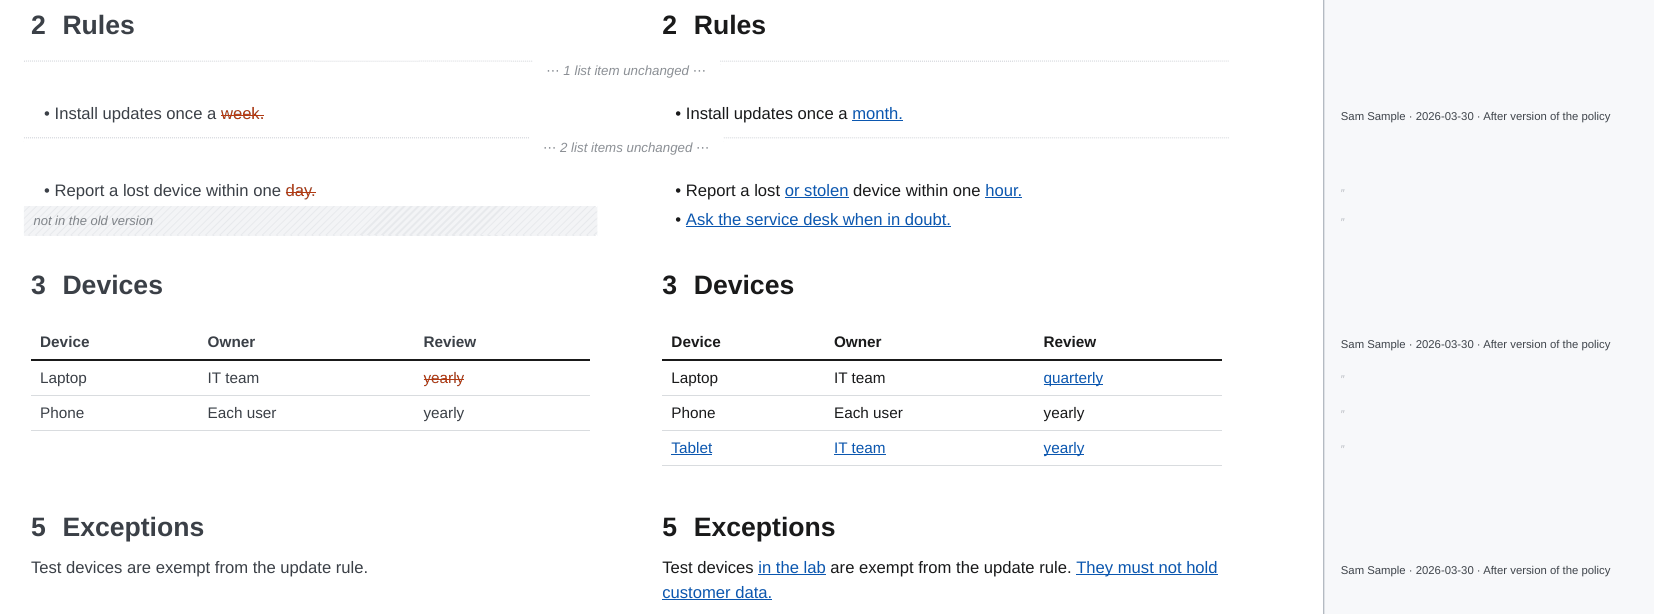
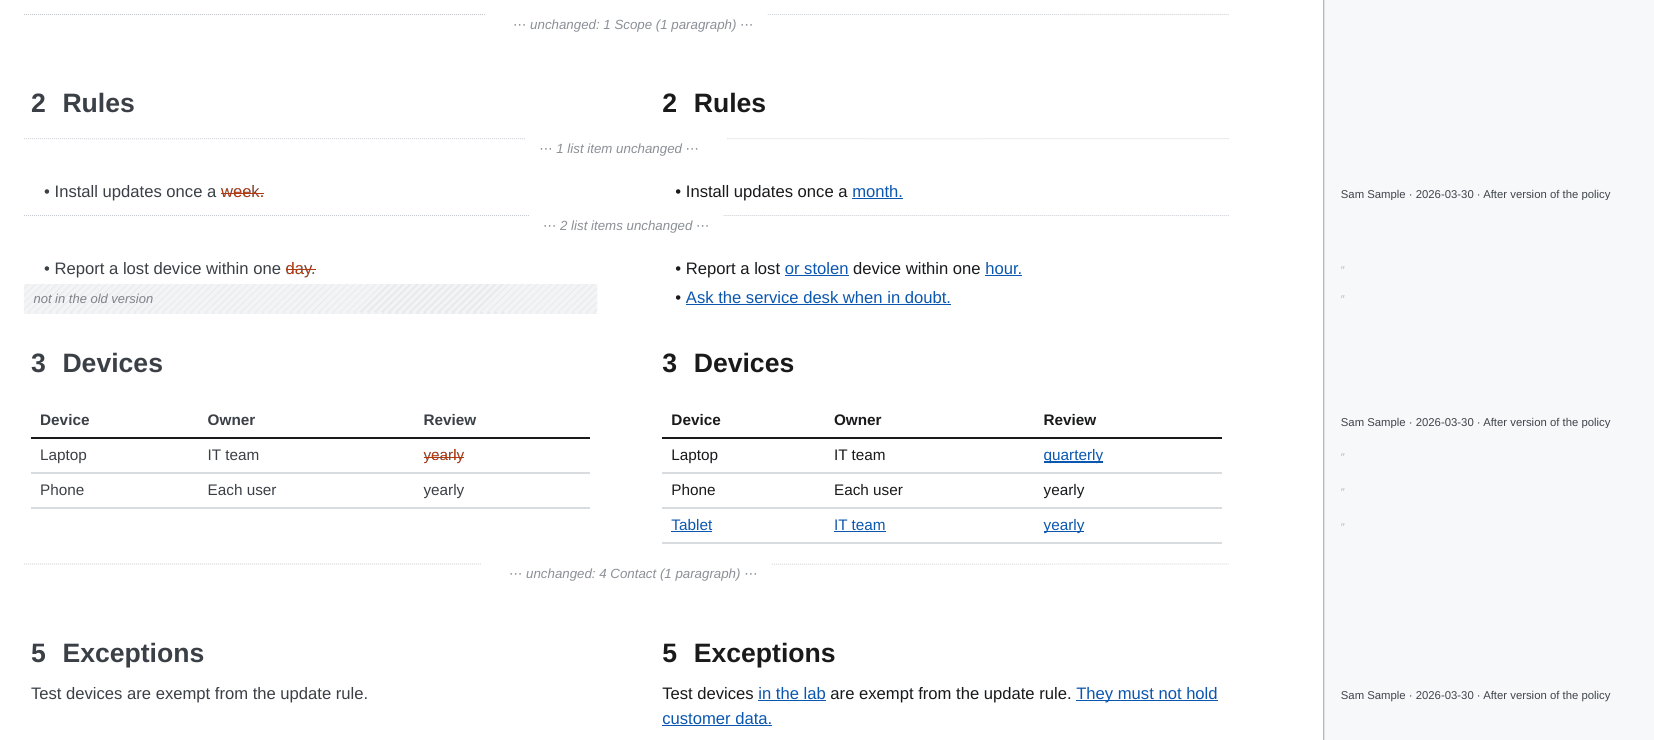
Give every link in the PDF a target
Collapsed lines keep the ids of all they stand for, also in lists, tables
and side-by-side rows, and a side-by-side chapter without changes becomes
a line in the table before it instead of being left out. A link to a
heading that is not in the PDF stays as text, with a warning.

diff --git a/obsidian_pdf_exporter/core/redline_collapse.py b/obsidian_pdf_exporter/core/redline_collapse.py
@@ -3,8 +3,9 @@
 Only changed blocks stay, with the headings of the sections that contain a change, so
 the reader keeps the heading path. Every run of unchanged blocks becomes one quiet
 line such as "⋯ 3 paragraphs unchanged ⋯"; inside changed lists and tables, runs of
-unchanged items and rows are collapsed the same way. Collapsed headings keep their
-anchors, so links from the table of contents and the summary still work.
+unchanged items and rows are collapsed the same way. The line keeps the ids of what it
+stands for, so links from the table of contents, the summary and the text to a
+collapsed heading or block land on the line.
 """
 
 from __future__ import annotations
@@ -75,9 +76,7 @@ def collapsed_line(dropped: list[HtmlElement]) -> HtmlElement:
         else:
             word = _kind_word(el)
             kinds[word] = kinds.get(word, 0) + 1
-        for e in [el, *el.iterdescendants()]:
-            if e.get("id"):
-                line.append(element("span", "rl-anchor", id=e.get("id")))
+        keep_anchors(line, [el])
     parts = ", ".join(f"{n} {w}{'s' if n > 1 else ''}" for w, n in kinds.items())
     if heads:
         text = "unchanged: " + ", ".join(heads) + (f" ({parts})" if parts else "")
@@ -85,6 +84,17 @@ def collapsed_line(dropped: list[HtmlElement]) -> HtmlElement:
         text = f"{parts} unchanged"
     line.append(element("span", "rl-ctx-text", f"⋯ {text} ⋯"))
     return line
+
+
+def keep_anchors(
+    holder: HtmlElement, dropped: list[HtmlElement], extra: tuple[str, ...] = ()
+) -> None:
+    """Give ``holder`` the ids of ``dropped`` (and ``extra``), so links to them still land."""
+    ids = [*extra]
+    for el in dropped:
+        ids += [e.get("id") for e in [el, *el.iterdescendants()] if e.get("id")]
+    for i in dict.fromkeys(ids):
+        holder.append(element("span", "rl-anchor", id=i))
 
 
 def keep_flags(items: list[tuple[HtmlElement | None, bool]]) -> list[bool]:
@@ -148,9 +158,12 @@ def _collapse_runs(
             text = f"⋯ {n} {word}{'s' if n > 1 else ''} unchanged ⋯"
             if items[k].tag == "li":
                 holder = element("li", "rl-ctx-item", text)
+                keep_anchors(holder, items[k:j])
             else:
                 holder = element("tr", "rl-ctx-row")
-                holder.append(element("td", "", text, colspan=str(len(items[k]))))
+                cell = element("td", "", text, colspan=str(len(items[k])))
+                keep_anchors(cell, items[k:j])
+                holder.append(cell)
             items[k].addprevious(holder)
             for e in items[k:j]:
                 drop(e)

diff --git a/obsidian_pdf_exporter/core/redline_side_by_side.py b/obsidian_pdf_exporter/core/redline_side_by_side.py
@@ -22,6 +22,7 @@ from obsidian_pdf_exporter.core.htmltree import unwrap
 from obsidian_pdf_exporter.core.redline_collapse import collapsed_line
 from obsidian_pdf_exporter.core.redline_collapse import has_change
 from obsidian_pdf_exporter.core.redline_collapse import heading_level
+from obsidian_pdf_exporter.core.redline_collapse import keep_anchors
 from obsidian_pdf_exporter.core.redline_collapse import keep_flags
 from obsidian_pdf_exporter.core.redline_html import HEADINGS
 
@@ -266,7 +267,9 @@ def collapse_rows(rows: list[Row]) -> list[Row]:
             continue
         if run:
             dropped = [x.right if x.right is not None else x.left for x in run]
-            out.append(Row("ctx", None, collapsed_line([d for d in dropped if d is not None])))
+            line = collapsed_line([d for d in dropped if d is not None])
+            keep_anchors(line, [], tuple(x.anchor for x in run if x.anchor))
+            out.append(Row("ctx", None, line))
             run = []
         if r is not None:
             out.append(r)
@@ -321,12 +324,29 @@ def _row(r: Row) -> HtmlElement:
     return tr
 
 
+def _merge_unchanged_chapters(chapters: list[list[Row]]) -> list[list[Row]]:
+    """Move the line of a chapter without changes into the table of a changed neighbour.
+
+    The line names the chapter and keeps its anchors, so links to it still land.
+    """
+    out: list[list[Row]] = []
+    pending: list[Row] = []
+    for rows in chapters:
+        if any(r.kind != "ctx" for r in rows):
+            out.append(pending + rows)
+            pending = []
+        elif out:
+            out[-1].extend(rows)
+        else:
+            pending.extend(rows)
+    return out or [pending]
+
+
 def lay_out(body: HtmlElement, hunks: list[Hunk], *, collapse: bool) -> None:
     """Replace the text by one aligned two-column table per chapter."""
     chapters = [split_list_rows(rows) for rows in document_rows(body, hunks)]
     if collapse:
-        chapters = [collapse_rows(rows) for rows in chapters]
-        chapters = [rows for rows in chapters if any(r.kind != "ctx" for r in rows)] or chapters[:1]
+        chapters = _merge_unchanged_chapters([collapse_rows(rows) for rows in chapters])
     for n, rows in enumerate(chapters):
         table = element("table", "rl-sbs" + (" rl-sbs-break" if n else ""))
         cols = element("colgroup")

diff --git a/obsidian_pdf_exporter/core/html_postprocess.py b/obsidian_pdf_exporter/core/html_postprocess.py
@@ -9,6 +9,9 @@ from pathlib import Path
 from typing import TYPE_CHECKING
 from urllib.parse import unquote
 
+from obsidian_pdf_exporter.core.htmltree import HtmlTree
+from obsidian_pdf_exporter.core.htmltree import unwrap
+
 if TYPE_CHECKING:
     from collections.abc import Callable
 
@@ -340,3 +343,28 @@ def _drop_svg_size(svg_text: str) -> str:
         return svg_text
     tag = re.sub(r'\s(?:width|height)=["\'][^"\']*["\']', "", root.group(0))
     return svg_text.replace(root.group(0), tag, 1)
+
+
+_RE_ID = re.compile(r"""\bid=["']([^"']+)["']""")
+_RE_LOCAL_HREF = re.compile(r"""\bhref=["']#([^"']+)["']""")
+
+
+def unlink_missing_targets(html: str, warn: Callable[[str], None] | None = None) -> str:
+    """Keep the text of links to ``#id`` targets that are not in ``html``, without the link.
+
+    Such a link points to a heading that does not exist (for example ``[[#Typo]]``) or to
+    content that a redline left out. Without a target, the link would do nothing in the
+    PDF, and WeasyPrint reports it. ``warn`` gets one message per missing target.
+    """
+    ids = set(_RE_ID.findall(html))
+    missing = {t for t in _RE_LOCAL_HREF.findall(html) if t not in ids and unquote(t) not in ids}
+    if not missing:
+        return html
+    tree = HtmlTree(html)
+    for a in tree.root.xpath("//a[starts-with(@href, '#')]"):
+        if a.get("href", "")[1:] in missing:
+            unwrap(a)
+    for target in sorted(missing):
+        if warn is not None:
+            warn(f"link to #{target} has no target in the PDF, kept as text")
+    return tree.serialize()

diff --git a/obsidian_pdf_exporter/core/exporter.py b/obsidian_pdf_exporter/core/exporter.py
@@ -15,6 +15,7 @@ from obsidian_pdf_exporter.core.assemble import assemble_document
 from obsidian_pdf_exporter.core.blame import build_index
 from obsidian_pdf_exporter.core.blame import range_commits
 from obsidian_pdf_exporter.core.blame import write_blame_pdf
+from obsidian_pdf_exporter.core.html_postprocess import unlink_missing_targets
 from obsidian_pdf_exporter.core.pandoc import render_html
 from obsidian_pdf_exporter.core.pdf import apply_decorations
 from obsidian_pdf_exporter.core.pdf import html_to_pdf
@@ -210,6 +211,7 @@ def export_pdf(  # noqa: PLR0915 - linear pipeline reads better than splitting
         html = run_html(html, doc_ctx, steps)
         html = request.template.process_html(html, ctx)
         html = apply_decorations(html, request.template.decorations(ctx))
+        html = unlink_missing_targets(html, lambda m: log(f"  Warning: {m}"))
 
         (build_dir / "final.html").write_text(html, encoding="utf-8")
 
@@ -329,6 +331,7 @@ def export_redline(  # noqa: PLR0915 - linear pipeline reads better than splitti
             html = render_redline(html, options)
             html = request.template.process_html(html, ctx)
             html = apply_decorations(html, request.template.decorations(ctx))
+            html = unlink_missing_targets(html, lambda m: log(f"  Warning: {m}"))
 
             (build_dir / "redline_final.html").write_text(html, encoding="utf-8")
 
